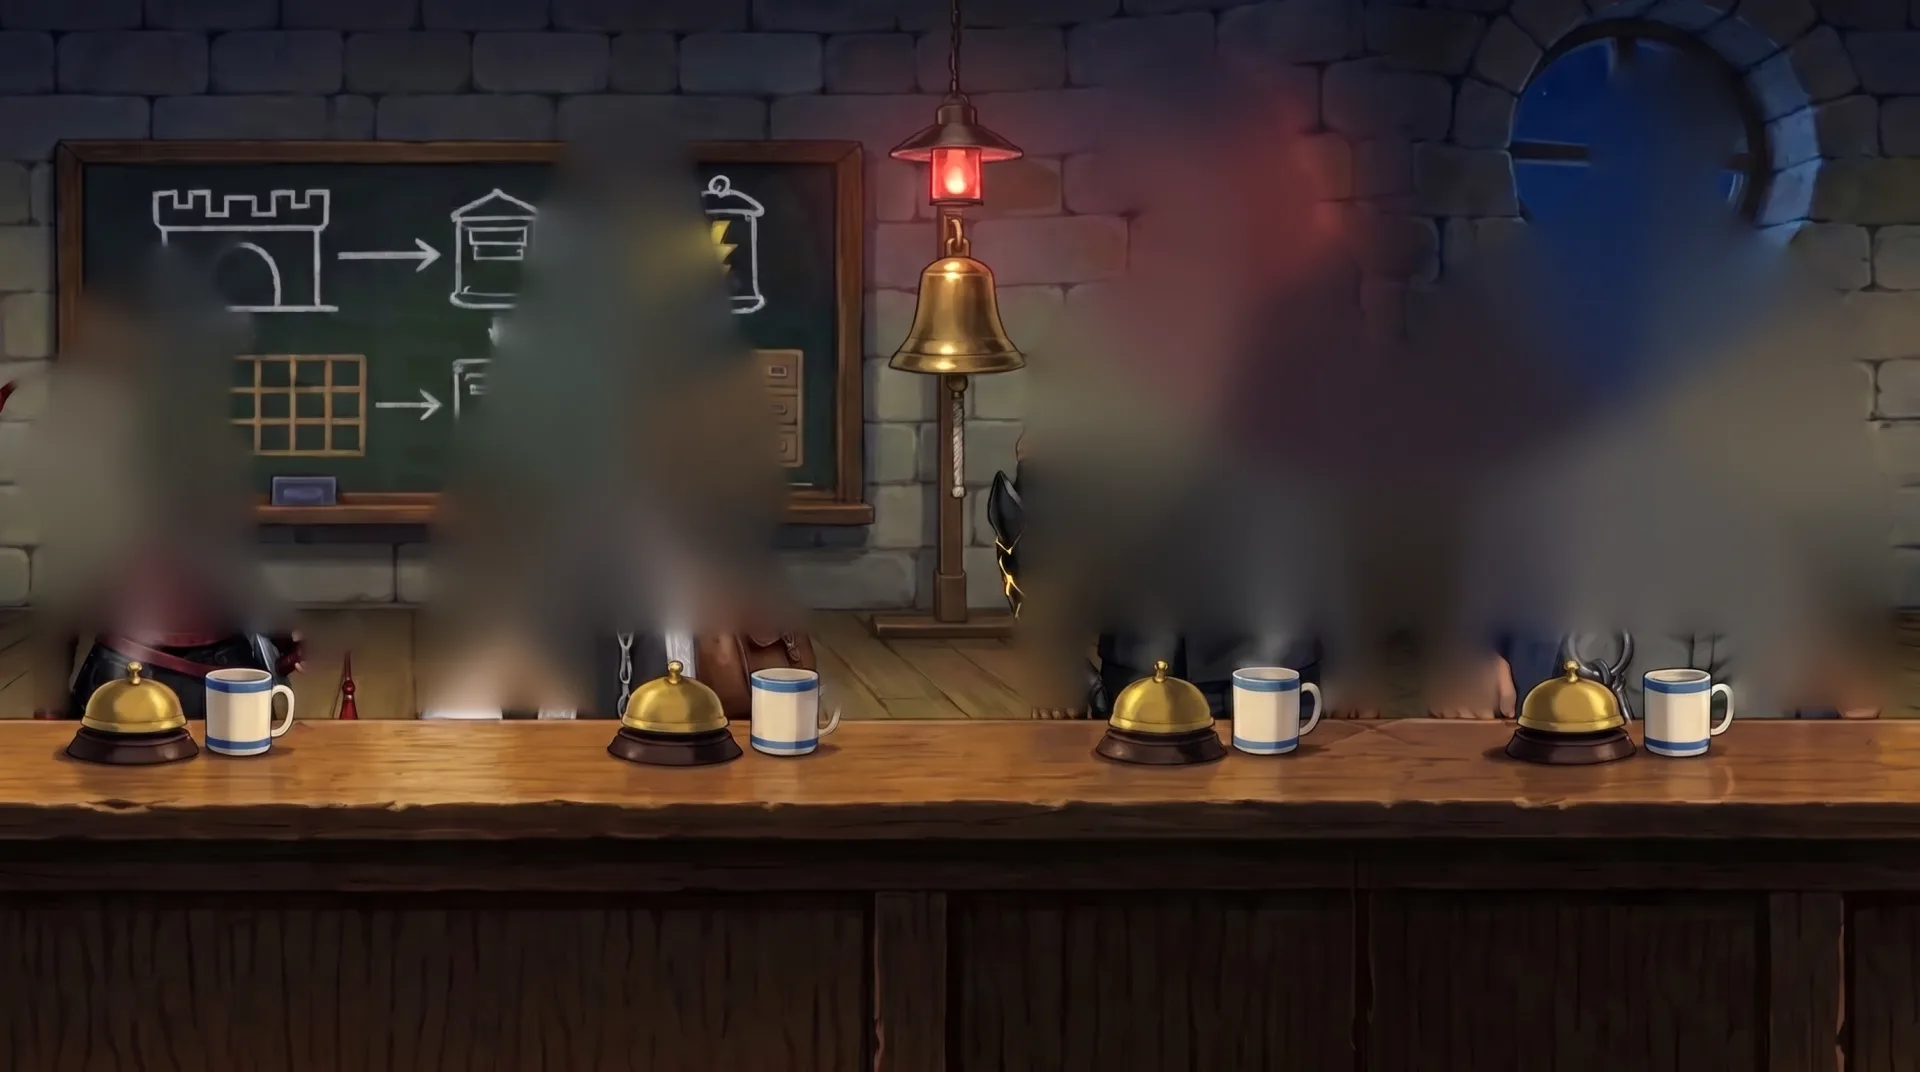
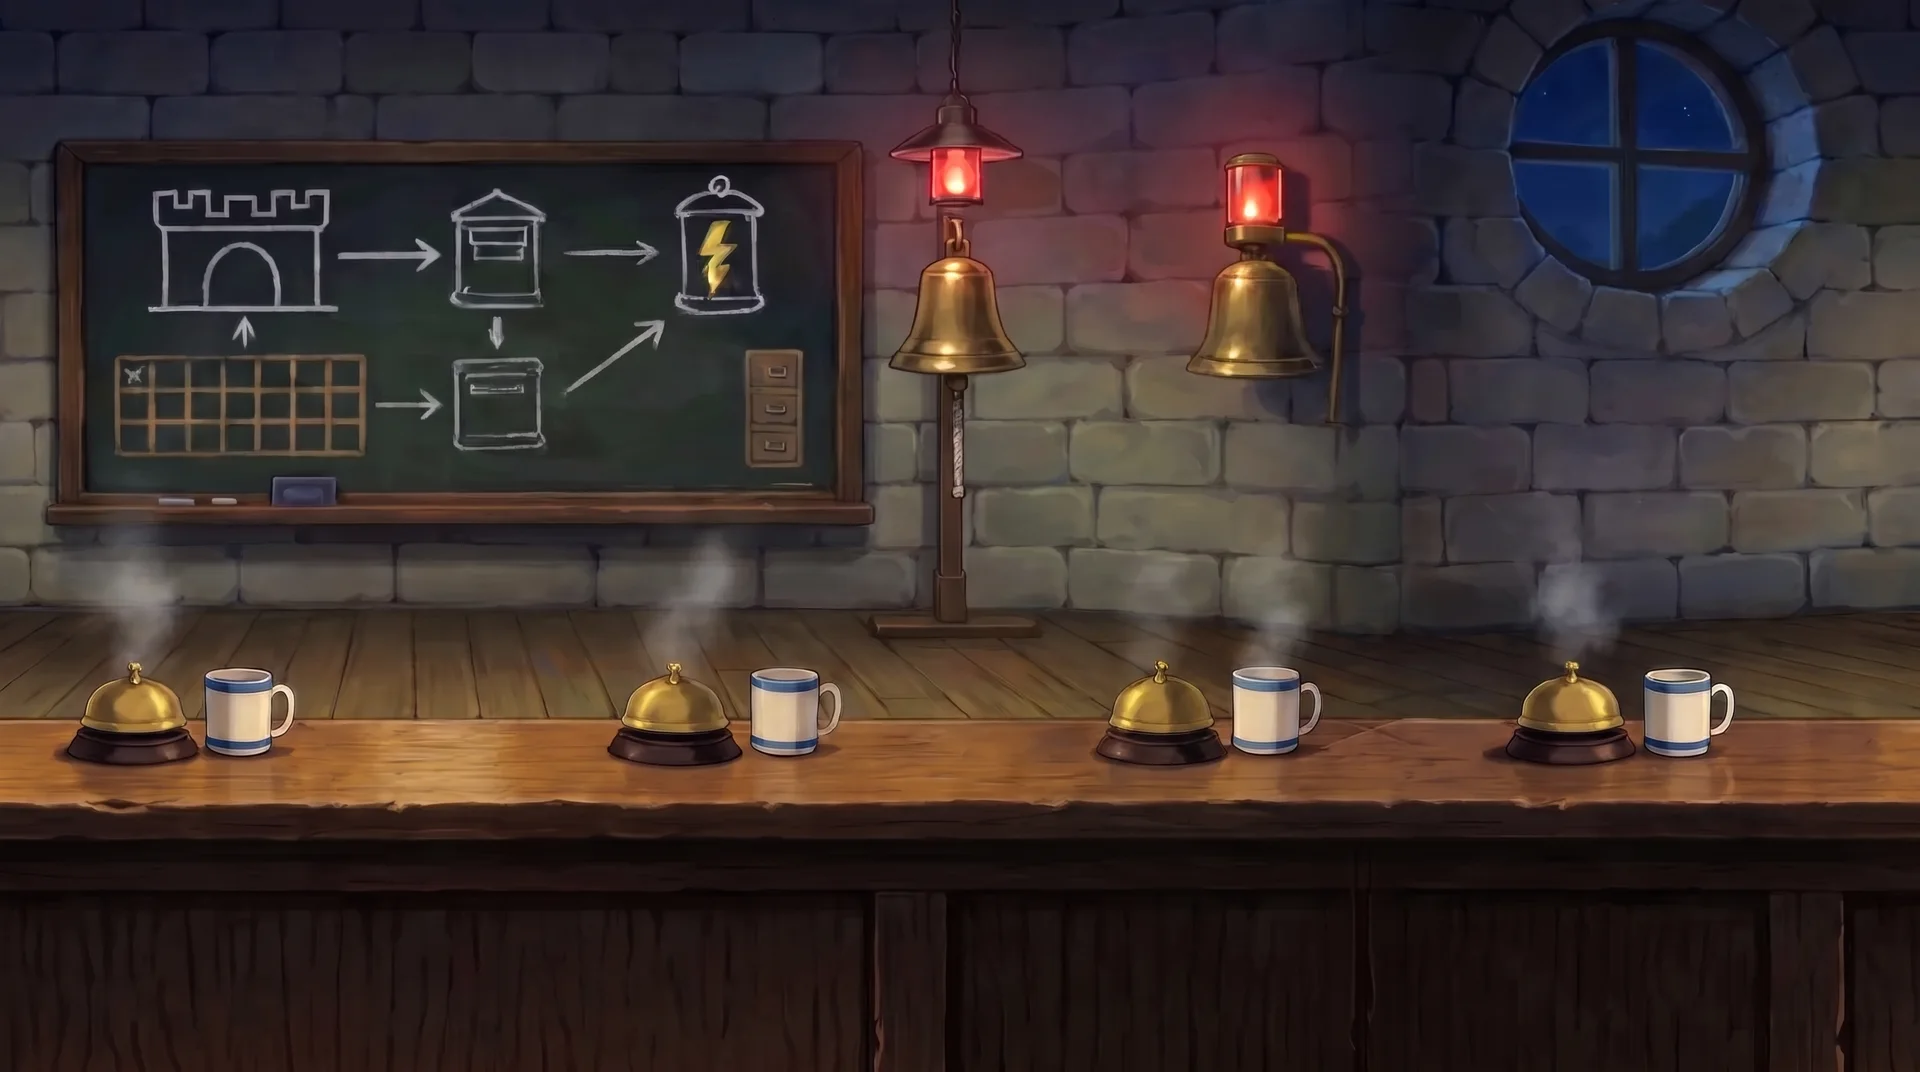
Fire Drill: a real empty room behind the see-through leads, and fuss lines on Uptima's loud lines
The empty room is a Gemini edit of the plate (lines up within a couple of shades outside the leads).
Fuss lines burst for 1.7 s at the start of lines with an exclamation, never two beats running.

Claude-Session: https://claude.ai/code/session_01JTmPYBNvtqoU9r9EqqbB4k

diff --git a/game/js/drill-room.js b/game/js/drill-room.js
@@ -40,12 +40,17 @@
   // whatever the room shows right now, cut out with a matte (room-leads-mask.png, from a segmentation model), so they
   // stand in front of her. While she talks (.rm.talk) all four leads turn see-through and soft over her (see the CSS).
   R.IDLE_POSE = 'smug';
+  // Anime fuss lines around her head while her mouth moves (Ladi: "to emphasize the obnoxiousness of it").
+  const SQUIG = `<svg class="rm-sq" viewBox="0 0 200 80" aria-hidden="true"><g fill="none" stroke-linecap="round" stroke-linejoin="round">
+    <g class="sq-a"><path d="M58 18 q-12 12 0 26"/><path d="M44 10 q-18 20 0 42"/><path d="M28 30 l-8 -6 m8 16 l-12 0 m12 10 l-8 6"/></g>
+    <g class="sq-b"><path d="M142 18 q12 12 0 26"/><path d="M156 10 q18 20 0 42"/><path d="M172 30 l8 -6 m-8 16 l12 0 m-12 10 l8 6"/></g>
+    <g class="sq-c"><path d="M70 2 l4 -8 l4 6 l4 -8"/><path d="M118 0 l4 -8 l4 6 l4 -8"/><path d="M178 66 q8 -4 6 -12 q8 2 10 -6"/><path d="M22 66 q-8 -4 -6 -12 q-8 2 -10 -6"/></g></g></svg>`;
   const VX = .010417, VW = .979167;
   R.layers = pose => `<img class="rm-back" src="assets/img/drill/room-empty.webp" alt="" draggable="false" aria-hidden="true">
         <div class="rm-front"><img class="rm-plate" src="assets/img/drill/room.webp" alt="The war room: Seo-yeon, Mira, Kai and Dutch behind the counter" draggable="false">
         <div class="rm-vslot" aria-hidden="true"></div></div>
         <div class="rm-cloud" aria-hidden="true"><span class="up-fig blinks" data-pose="cloud"><img class="up-b" src="assets/img/drill/uptima-cloud.webp" alt="" draggable="false"><img class="up-k" src="assets/img/drill/uptima-cloud-blink.webp" alt="" draggable="false" onerror="this.remove()"></span><span class="rm-emote"></span></div>
-        <div class="rm-up" aria-hidden="true">${R.pose(pose, 'blinks')}</div>
+        <div class="rm-up" aria-hidden="true">${R.pose(pose, 'blinks')}${SQUIG}</div>
         <canvas class="rm-over" width="960" height="536" aria-hidden="true"></canvas>`;
   let matte = null, overRaf = 0;
   function drawOver(c) {
@@ -310,6 +315,17 @@
     @keyframes upblink { 0%, 93% { opacity: 0; } 94%, 97% { opacity: 1; } 98% { opacity: 0; } }
     .up-fig.talking .up-t { animation: uptalk .32s steps(1, end) infinite; }
     @keyframes uptalk { 0%, 49% { opacity: 1; } 50% { opacity: 0; } }
+    .rm-sq { position: absolute; left: 4%; top: 3%; width: 92%; height: 22%; overflow: visible; pointer-events: none; opacity: 0; transition: opacity .15s; }
+    .rm-sq path { stroke: #fff; stroke-width: 3.2; paint-order: stroke; filter: drop-shadow(0 0 1.5px #17131f) drop-shadow(0 0 1px #17131f); }
+    .rm-sq .sq-c path { stroke: #ffd36b; stroke-width: 2.6; }
+    /* In moderation (Ladi): a short burst at the start of her loudest lines only (the cutscene adds .fuss). */
+    .rm-sq.fuss { animation: sqshow 1.7s ease-out both; }
+    .rm-sq.fuss .sq-a { animation: sqjit .22s steps(2) infinite; transform-origin: 30% 50%; }
+    .rm-sq.fuss .sq-b { animation: sqjit .22s steps(2) infinite reverse; transform-origin: 70% 50%; }
+    .rm-sq.fuss .sq-c { animation: sqpop .5s steps(2) infinite; transform-origin: 50% 50%; }
+    @keyframes sqshow { 0% { opacity: 0; } 8%, 70% { opacity: 1; } 100% { opacity: 0; } }
+    @keyframes sqjit { 0% { transform: translate(0, 0) scale(1); } 50% { transform: translate(-1.5%, -2%) scale(1.06) rotate(-2deg); } }
+    @keyframes sqpop { 0% { opacity: 1; transform: scale(1); } 50% { opacity: .5; transform: scale(1.08) rotate(3deg); } }
     .rm-up .up-fig { filter: drop-shadow(0 .8cqi .8cqi rgba(0, 0, 0, .55)); animation: upbreathe 3.8s ease-in-out infinite; transform-origin: 50% 100%; }
     @keyframes upbreathe { 50% { transform: scaleY(1.008) translateY(-.15%); } }
     .rm-emote { position: absolute; left: 30%; top: -8%; font-size: 3.2cqi; opacity: 0; pointer-events: none; }
@@ -338,6 +354,6 @@
       .rm-chat .rm-say { display: block; }
       .rm-plq span { display: none; }
     }
-    @media (prefers-reduced-motion: reduce) { .rm-cam { transition: none; } .up-fig, .rm-up .up-fig, .rm-cloud { animation: none !important; } }`;
+    @media (prefers-reduced-motion: reduce) { .rm-cam { transition: none; } .up-fig, .rm-up .up-fig, .rm-cloud { animation: none !important; } .rm-sq { display: none; } }`;
   document.head.appendChild(css);
 })();

diff --git a/game/js/mode-drill.js b/game/js/mode-drill.js
@@ -43,6 +43,7 @@
   // opening collapsing at "...okay"). One tap per beat; then done().
   function cutScreen(beats, done) {
     let i = 0;
+    const fuss = []; beats.forEach(([, t], k) => { fuss[k] = /!/.test(t) && !fuss[k - 1]; });
     const calm = window.matchMedia && matchMedia('(prefers-reduced-motion: reduce)').matches;
     const show = () => {
       const [pose, text] = beats[i];
@@ -55,6 +56,9 @@
       // She glides down from her cloud to the desk as the scene opens, and floats back up when it closes.
       if (first) setTimeout(() => rm.classList.add('talk'), 250);
       if (fig) fig.classList.add('talking');
+      // Fuss lines only on lines that shout, and never two beats running.
+      const sq = b.querySelector('.rm-sq');
+      if (sq && fuss[i]) setTimeout(() => sq.classList.add('fuss'), first ? 900 : 120);
       RM().mount(b.querySelector('.dr-cut-room'));
       const talkMs = Math.min(11000, 800 + text.length * 62);
       const t1 = m[2] ? setTimeout(() => RM().setPose(fig, m[2]), +m[3]) : 0;

diff --git a/game/CREDITS.md b/game/CREDITS.md
@@ -31,10 +31,11 @@ Everything here was first made for or gathered by the first game, [Isekai'd Into
 | The Look-Alike Cup card's looping video and its poster (`assets/video/cards/duel.mp4`, `duel.webp`): Kagemaru nudges your stone at his market stall, gets caught and slides it back | Animated by Ladi with MiniMax H3 (Reference to Video) on [Sogni](https://www.sogni.ai), from a Sogni persona built on this game's Kagemaru portrait and PixelLab full body, over a background plate Ladi generated with Sogni text-to-image (krea2turbo) on 2026-11-16; trimmed and looped with ffmpeg | Generated for this game; used under Sogni's terms for generated output | The title screen's games carousel, the Look-Alike Cup card's picture |
 | The Fire Drill card's looping video and its poster (`assets/video/cards/drill.mp4`, `drill.webp`): the fire alarm rings in the castle war room and the four leads answer at their desk bells | Animated by Ladi with MiniMax H3 (Reference to Video) on [Sogni](https://www.sogni.ai), from Sogni personas built on this game's lead art and PixelLab full bodies, over a background plate Ladi generated with Sogni text-to-image (krea2turbo) on 2026-11-16 from the prompts in project files `game-modes/multiplayer-real/art-and-music.md`; trimmed to its loop point, scaled and looped with ffmpeg | Generated for this game; used under Sogni's terms for generated output | The title screen's games carousel, the Fire Drill card's picture |
 | The Fire Drill's war room plate (`assets/img/drill/room.webp`, `room-sm.webp`): the four leads behind the long counter in the request path's order | Edited for this game with Google's Gemini image model (gemini-3-pro-image-preview) through the Gemini API on Ladi's account on 2026-11-16, from the war room plate Ladi generated with Sogni text-to-image (krea2turbo); Gemini put the leads in path order and took Uptima out, then the plate was resized and converted to WebP | Generated for this game; used under Sogni's terms and the [Gemini API Additional Terms of Service](https://ai.google.dev/gemini-api/terms) | The Fire Drill's room (`js/drill-room.js`) and its cutscene backdrop (`js/mode-drill.js`) |
+| The empty war room (`assets/img/drill/room-empty.webp`): the plate with the four leads removed, shown behind them while Uptima talks | Edited for this game with Google's Gemini image model (gemini-3-pro-image-preview) through the Gemini API on Ladi's account on 2026-11-17, from the war room plate above; resized and converted to WebP | Used under the [Gemini API Additional Terms of Service](https://ai.google.dev/gemini-api/terms) | The Fire Drill's room (`js/drill-room.js`) |
 | Uptima's Fire Drill poses (`assets/img/drill/uptima-*.webp`): smug, lazy, caught, derpy, entitled, applauding, hiding, sulking, bluffing and snack, with blink and talk frames | Drawn by Ladi on 2026-11-16 as character sheets with Sogni image edits of Uptima's persona sheet, from the prompts in project files `game-modes/multiplayer-real/storyboard/uptima-expression-prompts.md`; each body cut out with a script, and the blink and talk faces edited with Google's Gemini image model (gemini-3-pro-image-preview) through the Gemini API on Ladi's account, then converted to WebP | Generated for this game; used under Sogni's terms and the [Gemini API Additional Terms of Service](https://ai.google.dev/gemini-api/terms) | Uptima on the room's counter and in the Fire Drill's cutscenes (`js/drill-room.js`, `js/mode-drill.js`) |
 | Uptima lazing on a cloud (`assets/img/drill/uptima-cloud.webp`, `uptima-cloud-blink.webp`) | Generated for this game with Google's Gemini image model (gemini-3-pro-image-preview) through the Gemini API on Ladi's account on 2026-11-16, from Uptima's persona sheet; the blink frame is a Gemini edit of the first, both keyed off a green background and converted to WebP | Used under the [Gemini API Additional Terms of Service](https://ai.google.dev/gemini-api/terms) | Uptima's idle spot at the back of the Fire Drill's room (`js/drill-room.js`) |
 | The Fire Drill room's living clips (`assets/video/drill/idle-a.mp4`, `idle-b.mp4`, `alarm.mp4`, `clear.mp4`, `slump.mp4`): the leads idling, answering the alarm, relaxing when a drill is contained and slumping when it isn't | Animated by Ladi on 2026-11-16 with MiniMax H3 on [Sogni](https://www.sogni.ai), starting from the war room plate above, from the prompts in project files `game-modes/multiplayer-real/storyboard/sogni-room-clips.md` (the first of two takes, both takes for idle); audio removed and re-encoded with ffmpeg | Generated for this game; used under Sogni's terms for generated output | The Fire Drill's room, under the plate's overlays (`js/drill-room.js`) |
-| The mattes that keep the leads in front of Uptima (`assets/img/drill/room-leads-matte.png`) and the softened room behind them (`room-empty.webp`, the plate with the leads painted out by OpenCV's inpainting) | Made for this game on 2026-11-16 from the war room plate with [rembg](https://github.com/danielgatis/rembg) (MIT), combining its isnet-anime ([anime-segmentation](https://github.com/SkyTNT/anime-segmentation), Apache 2.0) and u2net_human_seg ([U-2-Net](https://github.com/xuebinqin/U-2-Net), Apache 2.0) masks, cleaned up with SciPy | The mask is this game's own output | The Fire Drill's room (`js/drill-room.js`) |
+| The mattes that keep the leads in front of Uptima (`assets/img/drill/room-leads-matte.png`) | Made for this game on 2026-11-16 from the war room plate with [rembg](https://github.com/danielgatis/rembg) (MIT), combining its isnet-anime ([anime-segmentation](https://github.com/SkyTNT/anime-segmentation), Apache 2.0) and u2net_human_seg ([U-2-Net](https://github.com/xuebinqin/U-2-Net), Apache 2.0) masks, cleaned up with SciPy | The mask is this game's own output | The Fire Drill's room (`js/drill-room.js`) |
 | The Architect's Draft card's looping video and its poster (`assets/video/cards/draft.mp4`, `draft.webp`): Postmaster Coo seals a blueprint and Sir Seymour Backups checks it twice | Animated by Ladi with MiniMax H3 (Reference to Video) on [Sogni](https://www.sogni.ai), from a Sogni persona of Coo, a Sogni character sheet of Seymour built from this game's portrait and a PixelLab full body, over a background plate Ladi generated in Sogni (text to image); trimmed and looped with ffmpeg | Generated for this game; used under Sogni's and PixelLab's terms for generated output | The title screen's games carousel, the Architect's Draft card's picture |
 | The Lost and Found card's looping video and its poster (`assets/video/cards/pop.mp4`, `pop.webp`): the Hunch puffs up at Dutch, who swats it with his mop until it sags, then it slowly refills | Animated by Ladi with MiniMax H3 (Reference to Video) on [Sogni](https://www.sogni.ai), from a Sogni persona built on this game's Dutch lead art and PixelLab full body, the Hunch's PixelLab sprite (`assets/img/pop/hunch.webp`, upscaled) as a reference image, over a background plate Ladi generated with Sogni text-to-image (krea2turbo) on 2026-11-16; trimmed and looped with ffmpeg | Generated for this game; used under Sogni's and PixelLab's terms for generated output | The title screen's games carousel, the Lost and Found card's picture |
 | The Monster Hunt card's looping video and its poster (`assets/video/cards/hunt.mp4`, `hunt.webp`): a treasure-chest mimic creeps up behind Bru on a night street, freezes whenever she looks, and gets bonked with her stamp | Animated by Ladi with MiniMax H3 (Reference to Video) on [Sogni](https://www.sogni.ai), from a Sogni persona built on this game's Bru portrait and PixelLab full body, over a background plate Ladi generated with Sogni text-to-image (oneobsession) on 2026-11-16, with three distant figures painted out; trimmed and looped with ffmpeg | Generated for this game; used under Sogni's and PixelLab's terms for generated output | The title screen's games carousel, the Monster Hunt card's picture |
